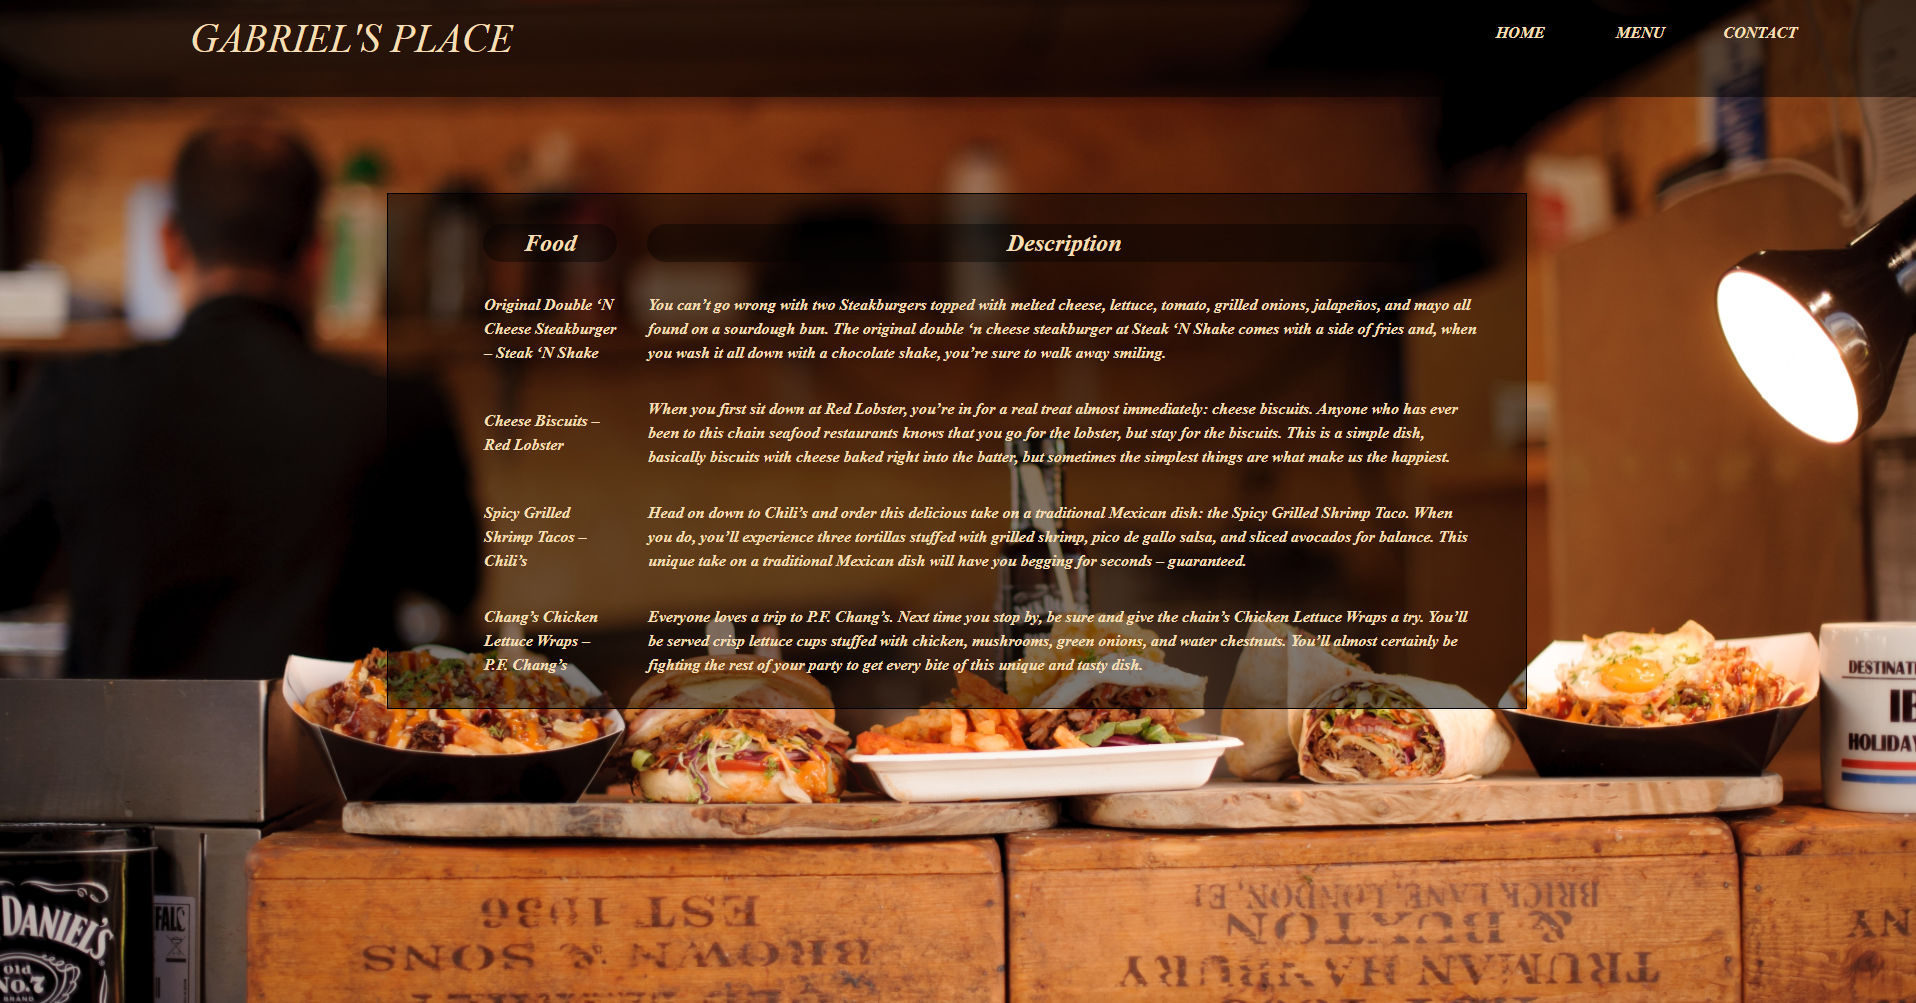
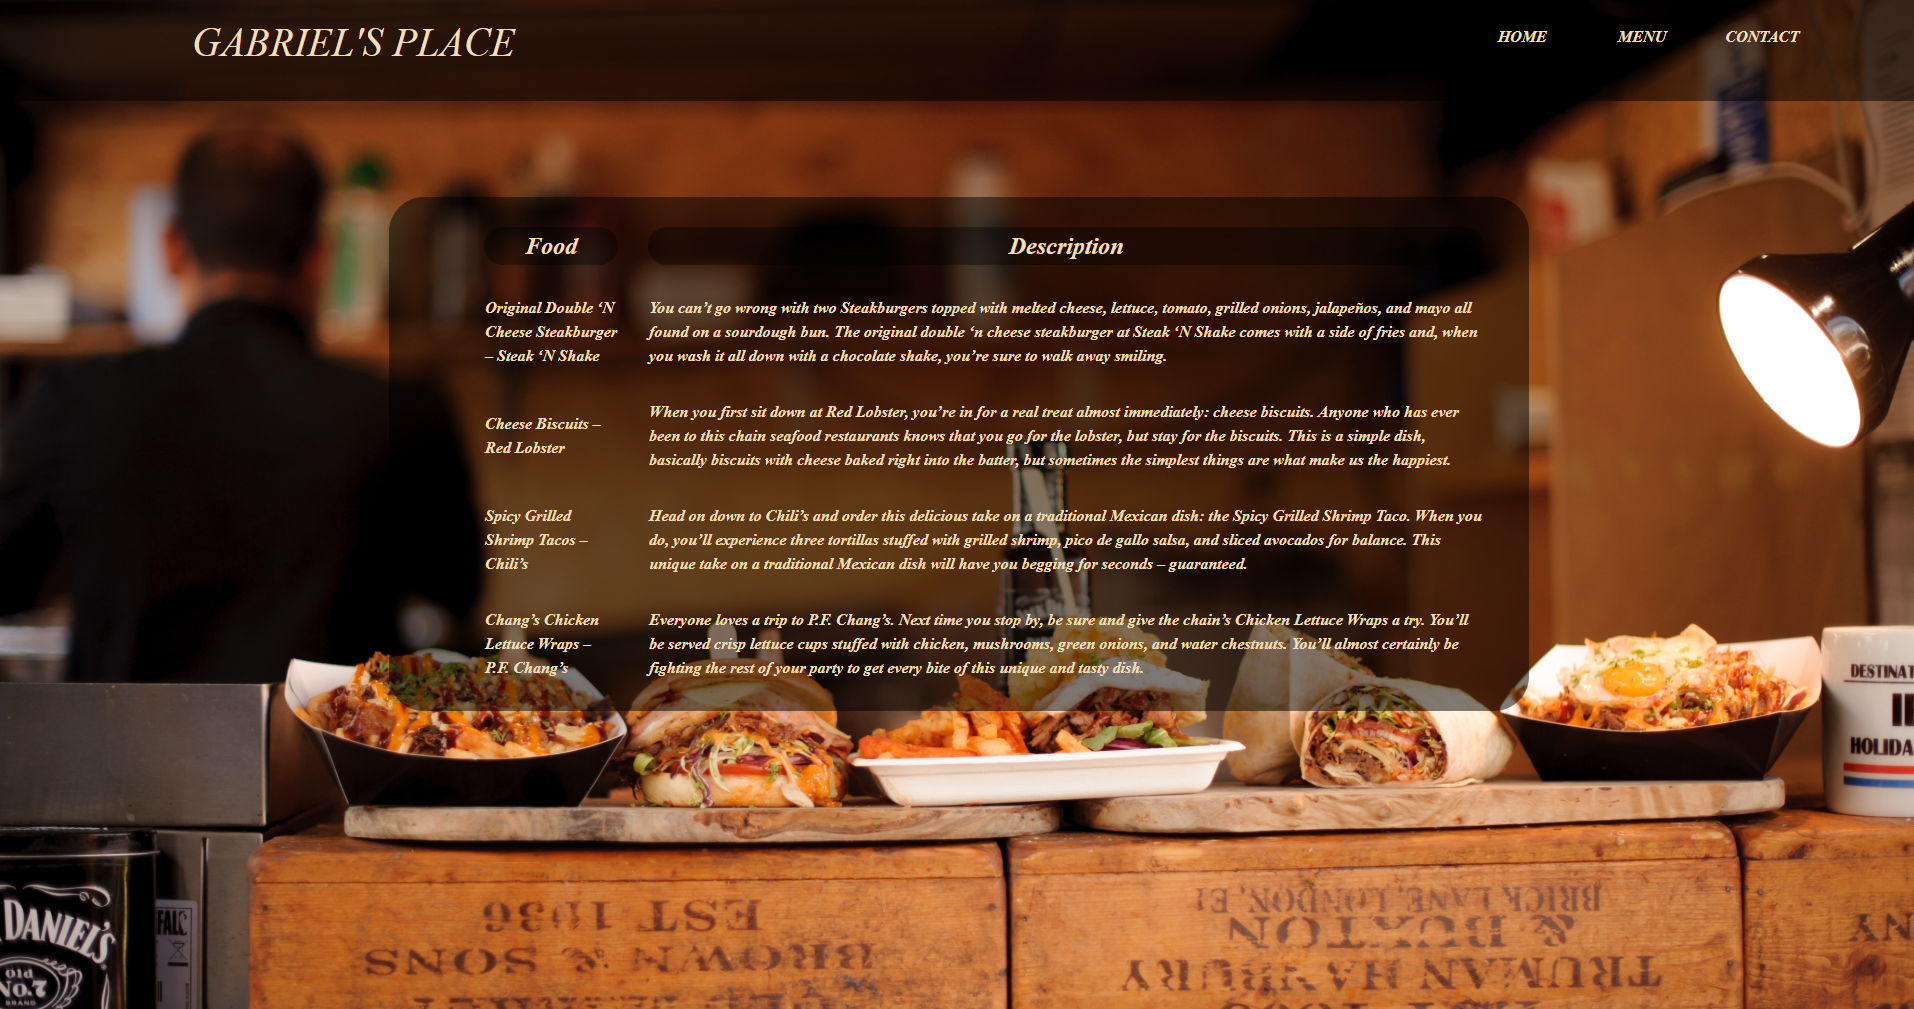
Add detailed README

diff --git a/src/main.scss b/src/main.scss
@@ -3,7 +3,7 @@
 
 
 html, body {
-  background: url(./assets/food.jpg) no-repeat center center fixed;
+  background: url(./assets/restraunt.jpg) no-repeat center center fixed;
   background-size: cover;
   color: wheat;
   font-family: 'Comfortaa' !important;
@@ -78,7 +78,8 @@ nav {
 
 #content.backdrop {
   margin-top: 5%;
-  border: 1px solid #000;
+  border-radius: 35px;
+  // border: 2px solid #000;
   justify-content: center;
   background-color: rgba(0, 0, 0, 0.5);
 }
@@ -120,8 +121,4 @@ table.menu-table th {
   font-size: 1.5rem;
   font-weight: 600;
   border-radius: 25px;
-}
-
-#contact-toggle{
-  border: 1px solid #000;
 }

diff --git a/README.md b/README.md
@@ -1,1 +1,79 @@
 # restaurant-page
+
+> A DOM manipulation project - dynamically rendering a simple restaurant homepage!
+
+![screenshot](./src/assets/screenshot.png)
+
+Additional description about the project and its features. 
+
+## Built With
+
+- Bootstrap,
+- HTML/SASS,
+- JavaScript,
+- Webpack.
+
+## Live Demo
+
+[Live Demo Link](https://raw.githack.com/ChristianOtieno/restaurant-page/feature/restraunt/dist/index.html)
+
+## Getting Started
+
+**Below are the instructions on setting up the project locally.**
+
+To get a local copy up and running follow these simple example steps.
+
+### Setup and installation
+
+```
+git clone git@github.com:ChristianOtieno/restraunt-page.git
+```
+
+### Usage
+
+```
+run npm install webpack webpack-cli --save-dev
+```
+
+> This acrion will install webpack to the node_modules directory of this project.
+
+### Run tests
+
+```
+npx eslint .
+```
+
+### Run the site
+
+```
+run npm install webpack webpack-cli --save-dev
+```
+
+> This action will prepare your site and bundle everything together for you
+
+## Authors
+
+👤 **Author**
+
+- Github: [@ChristianOtieno](https://github.com/ChristianOtieno)
+- Twitter: [@iamchrisotieno](https://twitter.com/iamchrisotieno)
+- Linkedin: [Christian Otieno](https://linkedin.com/linkedinhandle)
+
+## 🤝 Contributing
+
+Contributions, issues and feature requests are welcome!
+
+Feel free to check the [issues page](https://github.com/ChristianOtieno/restraunt-page/issues).
+
+## Show your support
+
+Give a ⭐ if you like this project!
+
+## Acknowledgments
+
+- Hat tip to anyone whose code was used
+- Inspiration.
+
+## 📝 License
+
+This project is [MIT](https://opensource.org/licenses/MIT) licensed.
